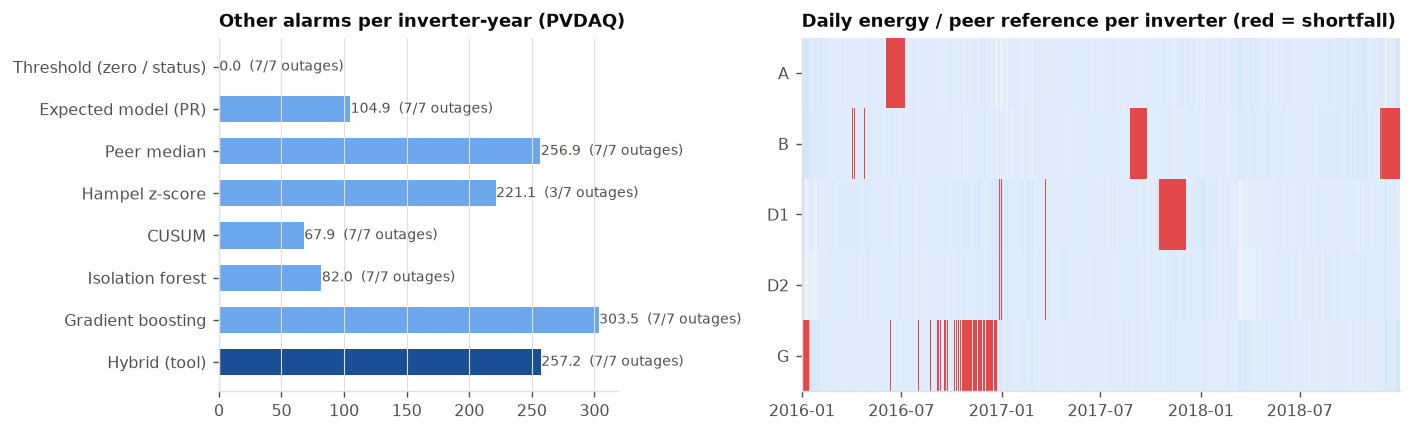
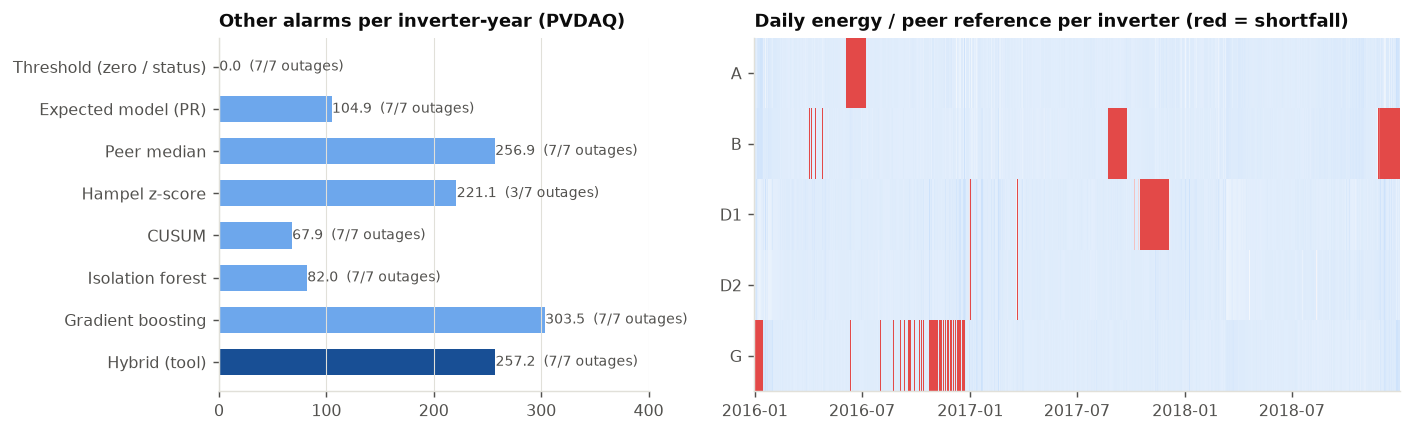
Fix chart layout: confusion labels, legends off the data
Dashboard: vertical class labels on the confusion matrix (smaller on phones), shading sweep legend above the plotting area. README figures: sweep and twin-inverter legends moved to empty corners, room for the longest bar label. No numbers changed.

diff --git a/docs/index.html b/docs/index.html
@@ -406,7 +406,10 @@ function confusion() {
     colorscale: [[0, css("--seq0")], [0.5, css("--seq1")], [1, css("--seq3")]], zmin: 0, zmax: 1, showscale: false,
     text: n.map(r => r.map(v => v ? String(v) : "")), texttemplate: "%{text}", customdata: n, xgap: 2, ygap: 2,
     hovertemplate: "true %{y}<br>predicted %{x}<br>%{customdata} events (%{z:.0%} of row)<extra></extra>"}],
-    baseLayout({margin: {l: 150, r: 10, t: 10, b: 110}, yaxis: {autorange: "reversed", title: "true cause"}, xaxis: {title: "predicted", tickangle: -35}}), CONF);
+    // vertical x labels and a smaller font on phones, so neighbouring class names do not overlap
+    baseLayout({margin: {l: 150, r: 10, t: 10, b: 150}, yaxis: {autorange: "reversed", title: "true cause", automargin: true,
+                tickfont: {size: innerWidth < 640 ? 9 : 12}},
+                xaxis: {title: "predicted", tickangle: -90, automargin: true, tickfont: {size: innerWidth < 640 ? 9 : 12}}}), CONF);
   document.getElementById("cm-acc").textContent = `accuracy ${pct(c.accuracy)}`;
 }
 
@@ -504,7 +507,9 @@ function shading() {
       customdata: pts.map(r => r.theta), hovertemplate: `${names[m]}<br>threshold %{customdata}<br>%{y} of ${n} days found, %{x:.1f} alarms / inverter-year<extra></extra>`};
   });
   Plotly.react("sh-sweep", traces, baseLayout({xaxis: {type: "log", title: "alarms outside the labels per inverter-year", gridcolor: css("--grid")},
-    yaxis: {title: `shaded days found (of ${n})`, gridcolor: css("--grid")}, margin: {l: 55, r: 10, t: 40, b: 45}}), CONF);
+    yaxis: {title: `shaded days found (of ${n})`, gridcolor: css("--grid")},
+    // legend in the top margin, above the plotting area (it wraps to more rows on phones)
+    legend: {orientation: "h", x: 0, y: 1.02, yanchor: "bottom"}, margin: {l: 55, r: 10, t: innerWidth < 640 ? 100 : 64, b: 45}}), CONF);
   const d = S.daily, sh = d.shaded.map(Boolean);
   Plotly.react("sh-daily", [
     {type: "scatter", mode: "markers", name: "normal day", x: d.dates.filter((_, i) => !sh[i]), y: d.ratio.filter((_, i) => !sh[i]), marker: {size: 4, color: css("--muted")}},

diff --git a/src/pv_outage/report.py b/src/pv_outage/report.py
@@ -220,6 +220,7 @@ def fig_real(plt, real, results, path):
                  height=0.62)
     for yy, v, fnd, n in zip(y, r["other_per_device_year"], r["plain_found"], r["plain_outages"]):
         axes[0].text(v + 0.3, yy, f"{v:.1f}  ({fnd}/{n} outages)", va="center", fontsize=8, color=INK2)
+    axes[0].set_xlim(0, r["other_per_device_year"].max() * 1.32)  # room for the longest bar label
     axes[0].set_yticks(y, [METHOD_NAMES[m] for m in r.index])
     axes[0].set_title("Other alarms per inverter-year (PVDAQ)", loc="left")
     axes[0].grid(axis="y", visible=False)
@@ -259,14 +260,14 @@ def fig_shading(plt, results, path):
     axes[0].set_xlabel("alarms outside the labels per inverter-year")
     axes[0].set_ylabel(f"shaded days found (of {n})")
     axes[0].set_title("Threshold sweep (ring: threshold from the simulation)", loc="left")
-    axes[0].legend(fontsize=7, loc="lower right")
+    axes[0].legend(fontsize=7, loc="upper left")  # the empty corner: low alarm counts, many days found
     d = daily["ratio"].clip(0.3, 1.2)
     axes[1].plot(d.index, d, ".", ms=3, color=MUTED, label="normal day")
     sh = daily["shaded"] == 1
     axes[1].plot(d.index[sh], d[sh], "o", ms=5, color="#eb6834", label="labelled shading on inverter 1")
     axes[1].set_ylabel("daily energy, inverter 1 / inverter 2")
     axes[1].set_title("Twin inverters on La Reunion", loc="left")
-    axes[1].legend(fontsize=7, loc="lower left")
+    axes[1].legend(fontsize=7, loc="lower right")  # the labelled days are early in the record
     fig.tight_layout()
     fig.savefig(path)
     plt.close(fig)
